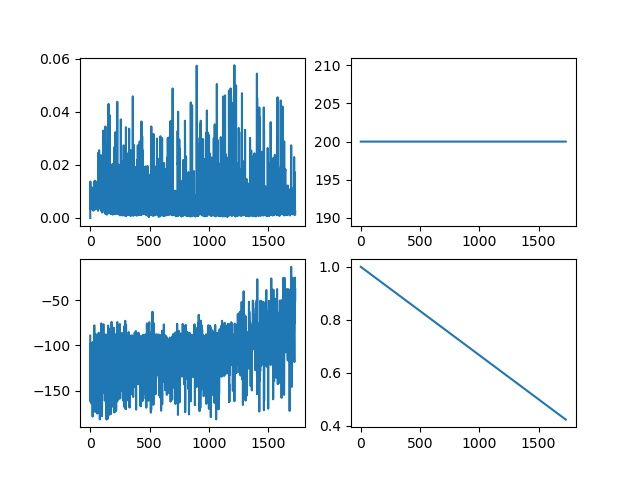
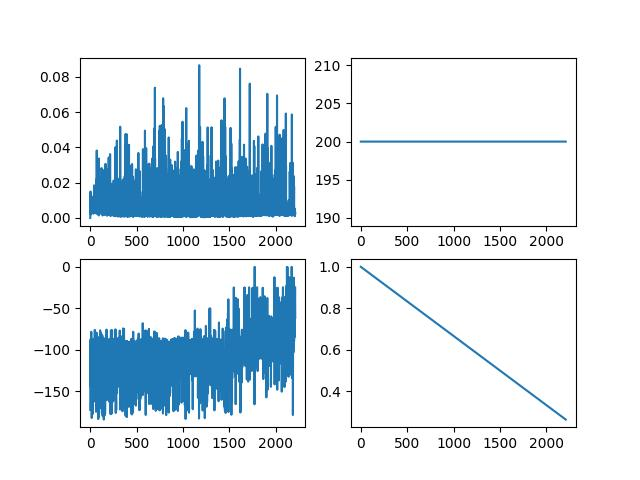
test dqn on ubuntu

diff --git a/2_Deep_ValueBased/Code/DNN_Value_Function/DQN_Pendulum/pendulum-v1_dqn_demo.py b/2_Deep_ValueBased/Code/DNN_Value_Function/DQN_Pendulum/pendulum-v1_dqn_demo.py
@@ -20,7 +20,7 @@ exp_replay_size = 256
 # agent = DQN_agent(seed, layer_sizes, lr, gamma, sync_freq, exp_replay_size)
 # agent = double_DQN_agent(seed, layer_sizes, lr, gamma, sync_freq, exp_replay_size)
 agent = dueling_DQN_agent(seed, layer_sizes, lr, gamma, sync_freq, exp_replay_size)
-agent.load_pretrained_model("2_Deep_ValueBased/Model/"+ agent.name +"_DQN-Pendulum-v1_episode_2477.pth")
+agent.load_pretrained_model("2_Deep_ValueBased/Model/"+ agent.name +"_DQN-Pendulum-v1_episode_8000.pth")
 
 TEST_TIMES = 3
 TEST_MAX_STEP = 200

diff --git a/2_Deep_ValueBased/Code/DNN_Value_Function/DQN_Pendulum/main.py b/2_Deep_ValueBased/Code/DNN_Value_Function/DQN_Pendulum/main.py
@@ -16,9 +16,9 @@ lr = 1e-3
 gamma = 0.95
 sync_freq = 5
 exp_replay_size = 256
-agent = DQN_agent(seed, layer_sizes, lr, gamma, sync_freq, exp_replay_size)
+# agent = DQN_agent(seed, layer_sizes, lr, gamma, sync_freq, exp_replay_size)
 # agent = double_DQN_agent(seed, layer_sizes, lr, gamma, sync_freq, exp_replay_size)
-# agent = dueling_DQN_agent(seed, layer_sizes, lr, gamma, sync_freq, exp_replay_size)
+agent = dueling_DQN_agent(seed, layer_sizes, lr, gamma, sync_freq, exp_replay_size)
 
 episodes = 8000
 epsilon = 1.0
